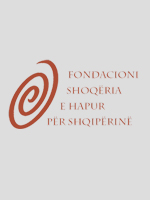
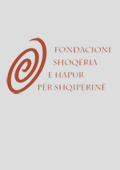
Increased thumbnail sizes; added 'Call Number' to the thumbnails; Gallery view removed.

Changed region(s): [[0.05, 0.2059, 0.925, 0.6471], [0.4, 0.5882, 0.875, 0.6471], [0.3, 0.5882, 0.375, 0.6471]]

diff --git a/lib/constants_custom.rb b/lib/constants_custom.rb
@@ -1,0 +1,74 @@
+module ConstantsCustom
+
+  SITE_URL = 'http://catalog.osaarchivum.org'
+  FEDORA_URL = 'http://172.31.12.60:8080/fedora'
+  FEDORA_GETFOXML = 'http://172.31.12.60/fedorahelper/getfoxml/'
+  FEDORA_RISEARCH_URL = FEDORA_URL + '/risearch'
+
+  TYPE_ICONS = {
+      'Book' => 'book',
+      'Moving Image' => 'film',
+      'Continuing Resource' => 'newspaper-o',
+      'Textual' => 'file-text-o',
+      'Archival Item (Moving Image)' => 'file-video-o',
+      'Archival Unit' => 'archive',
+      'Still Image' => 'photo',
+      'Audio' => 'file-audio-o',
+      'Electronic Record' => 'floppy-o'
+  }
+
+  ORIGIN_ICONS = {
+      'Archives' => 'A',
+      'Finding Aids' => 'FA',
+      'Library' => 'L',
+      'Film Library' => 'FL',
+      'Digital Repository' => 'DR'
+  }
+
+  DESCRIPTION_LEVEL_SORT = ['Fonds', 'Subfonds', 'Series', 'Folder', 'Item']
+
+  NIELSEN_TAGS = { '505' => '905', '586' => '986' }
+
+  EXCLUDE_FIELDS = ['w', '0', '5', '6', '8', '?', '=']
+
+  HIDE_1ST_IND = %W(760 762 765 767 770 772 773 774 775 776 777 780 785 786 787)
+
+  HIDE_1ST_IND0 = %W(541 542 561 583 590)
+
+  KOHA_ITEM_TYPES = {
+    'BK' => 'Book',
+    'BETA-SP' => 'Beta-SP',
+    'CD-ROM' => 'CD-ROM',
+    'CR' => 'Continuing resources',
+    'EPHEMERA' => 'Digitized ephemera',
+    'DIA' => 'Digitized filmstrips',
+    'DVD-ROM' => 'DVD-ROM',
+    'VHS' => 'VHS'
+  }
+
+  KOHA_LOCATIONS = {
+    'OSA' => 'OSA Archivum Library',
+    'OFF' => 'OSA Archivum Off-Site Storage',
+    'DIG' => 'OSA Digital Repository',
+    'FL' => 'OSA Film Library'
+  }
+
+  KOHA_COLLECTIONS = {
+    'ARC' => 'Archival, library and information sciences collection',
+    'GEN' => 'General collection',
+    'Text' => 'History textbook collection',
+    'REG' => 'HU OSA 300-85-18 Regional Press',
+    'INF' => 'HU OSA 300-85-19 Informal Press',
+    'HR' => 'Human Rights (IHF) Collection',
+    'SOR' => 'Hungarian Numbered Books',
+    'FL' => 'OSA Film Library',
+    'REF' => 'Reference collection',
+    'SAM' => 'Samizdat and Emigré Publications'
+  }
+
+  KOHA_NOT_FOR_LOAN = {
+    '0' => 'Not for loan',
+    '1' => 'Available'
+  }
+
+end

diff --git a/app/controllers/catalog_controller.rb b/app/controllers/catalog_controller.rb
@@ -261,8 +261,9 @@ class CatalogController < ApplicationController
     # View type group config
     config.view.list.icon_class = "fa-th-list"
 
-    config.view.gallery.partials = [:index_content]
-    config.view.gallery.icon_class = "fa-th"
+    # Gallery settings
+    # config.view.gallery.partials = [:index_content]
+    # config.view.gallery.icon_class = "fa-th"
 
     # config.view.brief.partials = [:index_content]
     # config.view.brief.icon_class = "fa-align-justify"

diff --git a/config/application.rb b/config/application.rb
@@ -38,7 +38,7 @@ module Osacatalog
 
     config.application_name = "osacatalog"
 
-    require 'constants'
+    require 'constants_custom'
     require 'holdings'
     require 'nearby_on_shelf'
     require 'fonds_structure'
